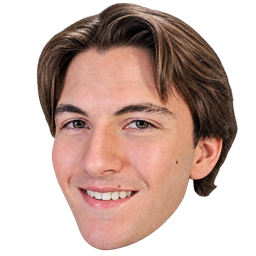
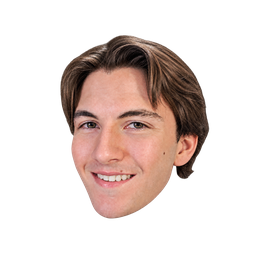
fix(ui): enlarge header mascot to 40px and prevent clipping on expand/hover

diff --git a/apps/web/src/components/sidebar/SidebarChrome.tsx b/apps/web/src/components/sidebar/SidebarChrome.tsx
@@ -51,7 +51,7 @@ export const SidebarChromeHeader = memo(function SidebarChromeHeader({
   return (
     <SidebarHeader
       className={cn(
-        "@container/sidebar-header relative h-[var(--workspace-topbar-height)] shrink-0 flex-row items-center px-3 py-0 md:px-0",
+        "@container/sidebar-header relative h-[var(--workspace-topbar-height)] shrink-0 flex-row items-center px-3 py-0 md:px-0 overflow-visible",
         isElectron && "drag-region",
       )}
       data-t3-surface="sidebar-header"
@@ -86,28 +86,30 @@ function SidebarBrand({ onBackdrop }: { onBackdrop: boolean }) {
     <Link
       aria-label="Go to threads"
       className={cn(
-        "relative z-10 ml-[var(--workspace-titlebar-content-left)] hidden h-8 w-fit min-w-0 shrink-0 items-center gap-2 rounded-md outline-hidden ring-ring focus-visible:ring-2 md:flex",
+        "relative z-10 ml-[var(--workspace-titlebar-content-left)] hidden h-full w-fit min-w-0 shrink-0 items-center gap-2.5 overflow-visible rounded-md outline-hidden ring-ring focus-visible:ring-2 md:flex",
         onBackdrop ? "text-white" : "text-foreground",
       )}
       to="/"
     >
-      <div className="flex items-center gap-1">
+      <div className="flex items-center gap-1.5">
         <KMMark />
         <span
           className={cn(
-            "-translate-y-px truncate text-sm font-medium tracking-tight",
+            "-translate-y-px truncate text-sm font-semibold tracking-tight",
             onBackdrop ? "text-white/70" : "text-muted-foreground",
           )}
         >
           Code
         </span>
       </div>
-      <img
-        src="/mascot/kyle-mascot-128.png"
-        alt="Kyle"
-        className="size-7 shrink-0 rounded-full object-cover select-none shadow-sm border border-white/20 transition-transform duration-200 hover:scale-110 active:scale-95"
-        draggable={false}
-      />
+      <div className="relative flex size-10 shrink-0 items-center justify-center overflow-visible">
+        <img
+          src="/mascot/kyle-mascot-256.png"
+          alt="Kyle"
+          className="size-10 shrink-0 rounded-full object-cover select-none shadow-md border-2 border-white/25 bg-background/50 transition-all duration-200 hover:scale-115 hover:shadow-lg hover:border-white/50 active:scale-95"
+          draggable={false}
+        />
+      </div>
     </Link>
   );
 }
